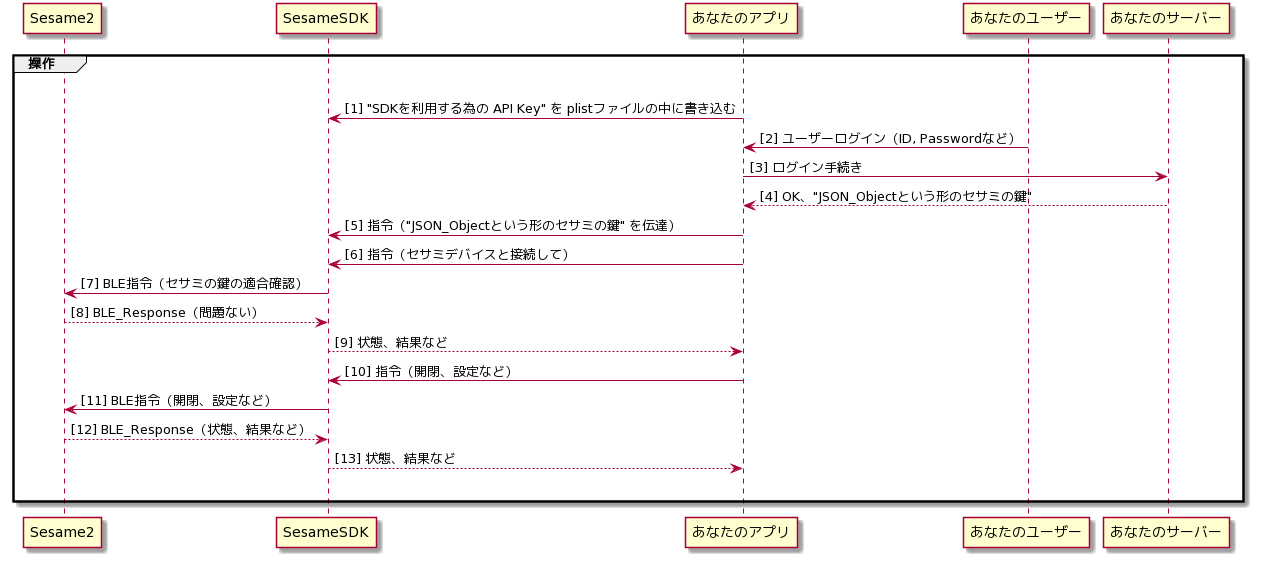
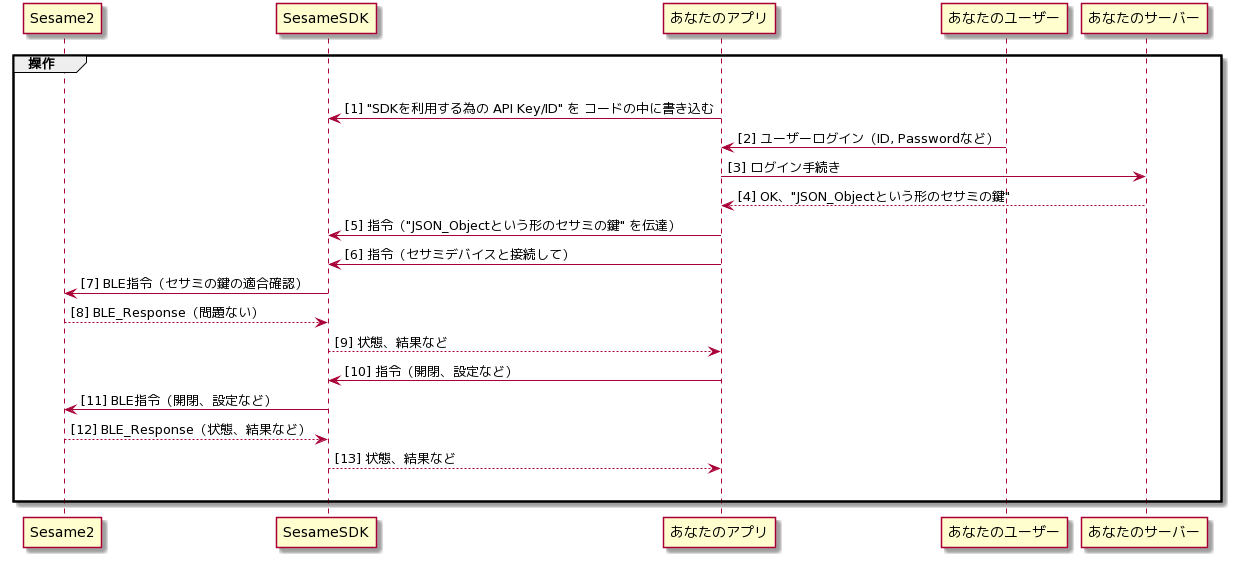
Assets edited (#4)
* Updated PlantUML

diff --git a/PlantUML.md b/PlantUML.md
@@ -8,7 +8,7 @@ participant あなたのアプリ
 participant あなたのユーザー
 participant あなたのサーバー
 |||
-あなたのアプリ -> SesameSDK : [1] "SDKを利用する為の API Key" を plistファイルの中に書き込む
+あなたのアプリ -> SesameSDK : [1] "SDKを利用する為の API Key/ID" を コードの中に書き込む
 あなたのユーザー -> あなたのアプリ: [2] ユーザー登録（ID, Passwordなど）
 あなたのアプリ -> あなたのサーバー : [3] 登録手続き
 あなたのサーバー --> あなたのアプリ : [4] ok
@@ -45,7 +45,7 @@ participant あなたのアプリ
 participant あなたのユーザー
 participant あなたのサーバー
 |||
-あなたのアプリ -> SesameSDK: [1] "SDKを利用する為の API Key" を plistファイルの中に書き込む
+あなたのアプリ -> SesameSDK: [1] "SDKを利用する為の API Key/ID" を コードの中に書き込む
 あなたのユーザー -> あなたのアプリ: [2] ユーザーログイン（ID, Passwordなど）
 あなたのアプリ -> あなたのサーバー : [3] ログイン手続き
 あなたのサーバー --> あなたのアプリ : [4] OK、"JSON_Objectという形のセサミの鍵"
